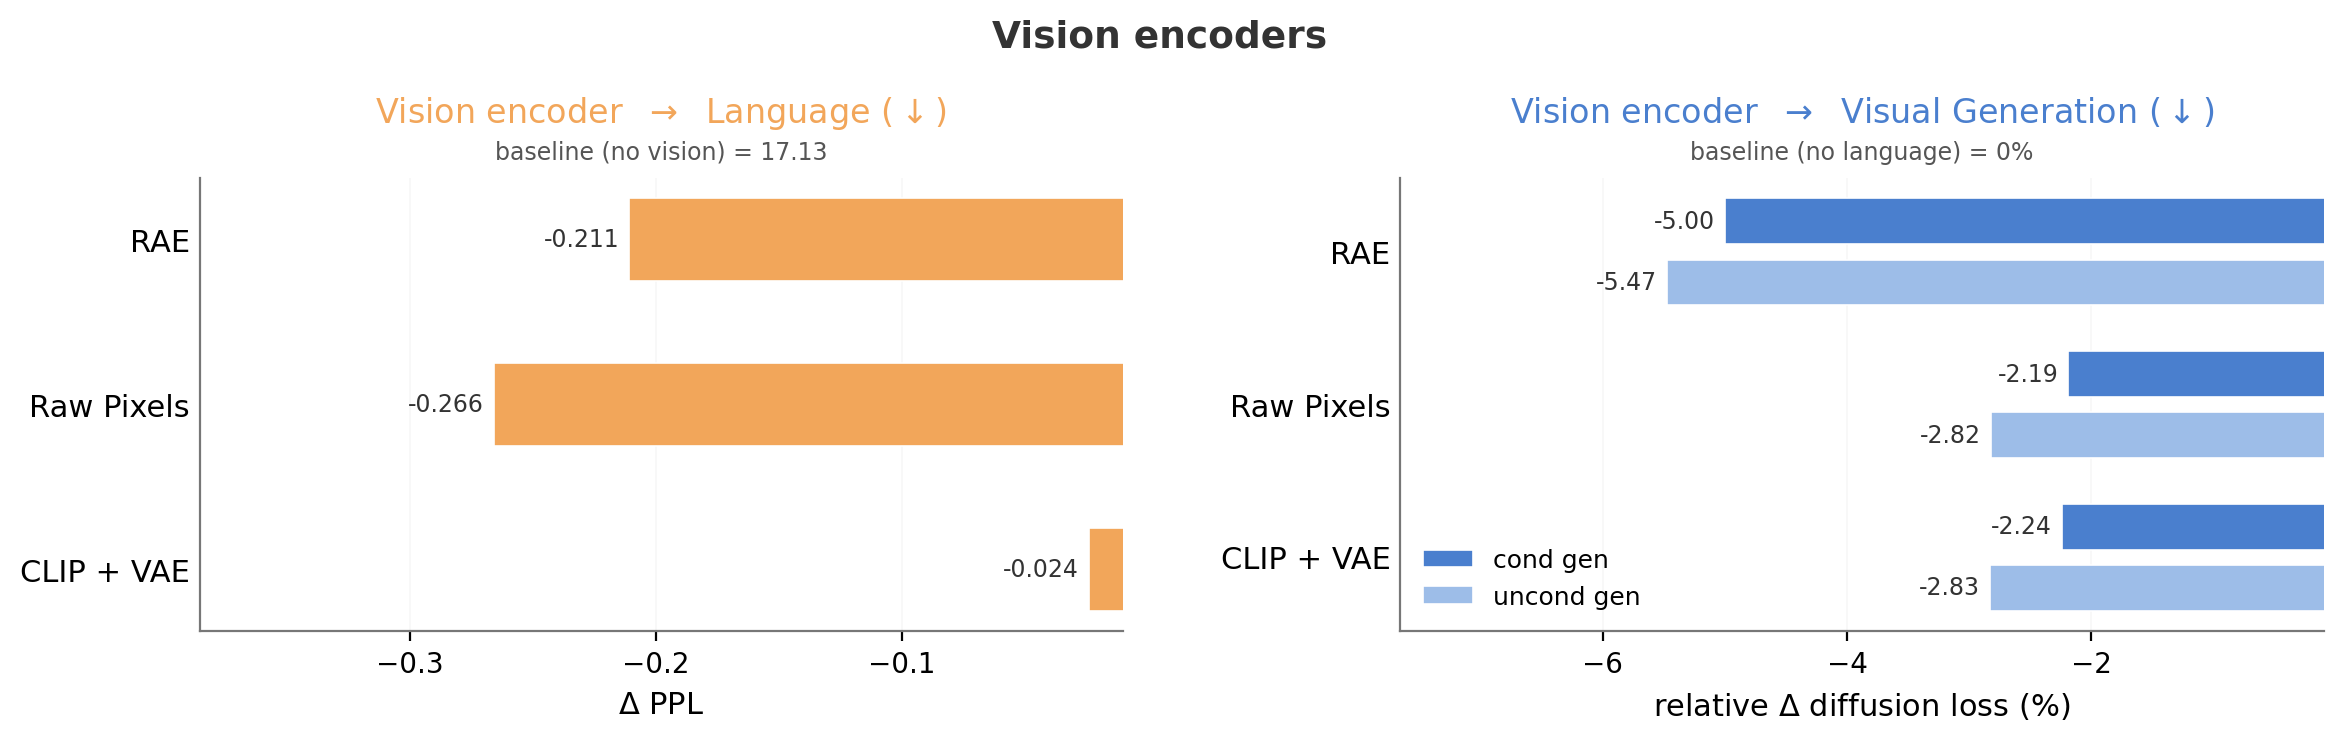
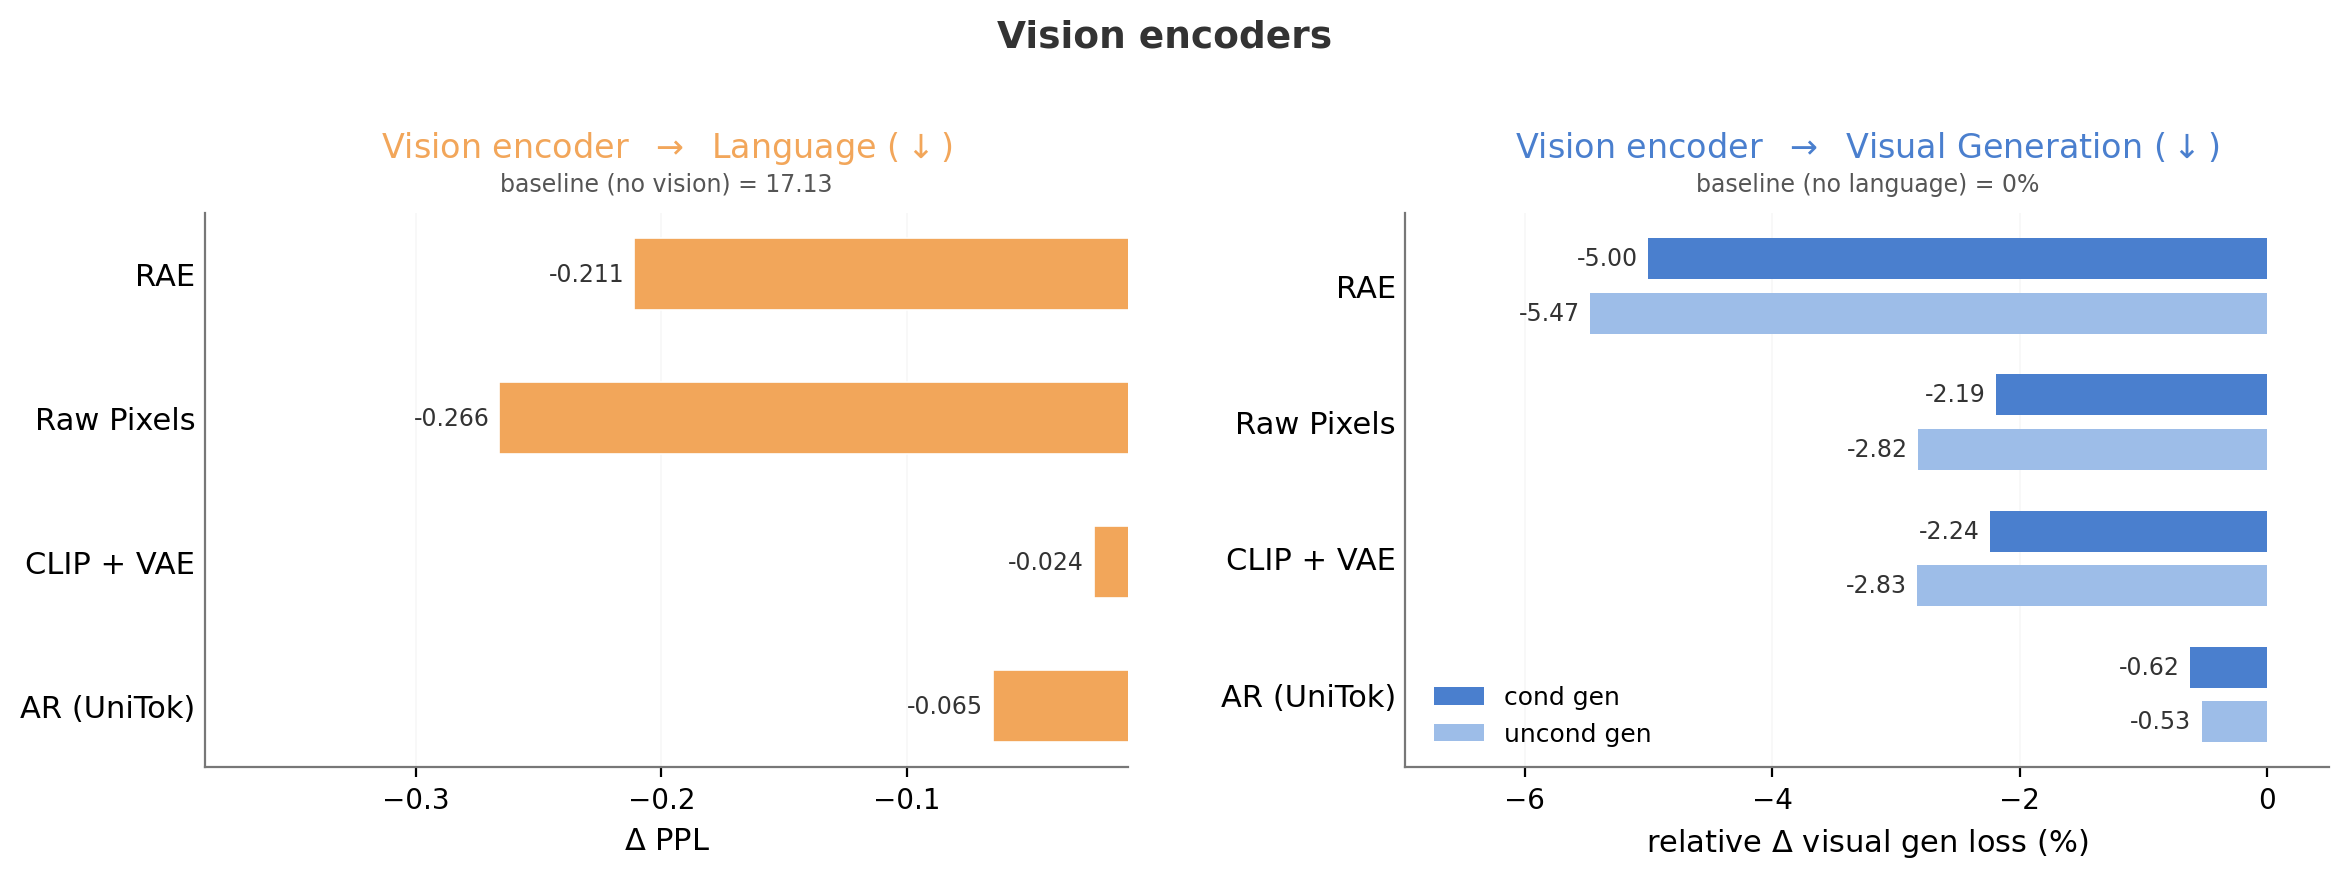
upd

diff --git a/projects/physics_of_mm_pretrain/index.html b/projects/physics_of_mm_pretrain/index.html
@@ -51,6 +51,7 @@
                         <span><a href="https://junlinhan.github.io/" class="author-link" target="_blank">Junlin Han<sup>1,2</sup></a></span>
                         <span><a href="https://tsb0601.github.io/" class="author-link" target="_blank">Shengbang Tong<sup>1</sup></a></span>
                         <span><a href="http://davidfan.io/" class="author-link" target="_blank">David Fan<sup>1</sup></a></span>
+                        <span><a href="https://silent-chen.github.io/" class="author-link" target="_blank">Minghao Chen<sup>1,2</sup></a></span>
                         <span><a href="https://scholar.google.com/citations?user=kPxa2w0AAAAJ&hl=en" class="author-link" target="_blank">Philip Torr<sup>2</sup></a></span>
                         <span><a href="https://www.fkokkinos.com/" class="author-link" target="_blank">Filippos Kokkinos<sup>1</sup></a></span>
                         <span><a href="https://scholar.google.com/citations?user=SnQnQicAAAAJ&hl=en" class="author-link" target="_blank">Mike Lewis<sup>1</sup></a></span>
@@ -62,19 +63,19 @@
                             <sup style="font-size: 0.8rem; margin-left: 2px;">1</sup>
                         </span>
                         <span class="institution-logo" style="display: inline-flex; align-items: flex-start;">
-                            <img src="assets/logos/oxford.png" alt="University of Oxford" style="height: 2rem; display: block;">
+                            <img src="assets/logos/oxford.png" alt="University of Oxford" class="logo-oxford" style="display: block;">
                             <sup style="font-size: 0.8rem; margin-left: 2px;">2</sup>
                         </span>
                     </div>
 
-                    <!-- <div class="paper-links d-flex flex-wrap justify-content-center gap-3">
+                    <div class="paper-links d-flex flex-wrap justify-content-center gap-3">
                         <a href="Towards_Physics_of_Multimodal_Pretraining_.pdf" class="resource-btn" target="_blank" rel="noopener">
-                            <i class="fas fa-file-pdf"></i> Paper 
+                            <i class="fas fa-file-pdf"></i> Paper
                         </a>
                         <a href="https://arxiv.org/abs/2606.00000" class="resource-btn" target="_blank" rel="noopener">
                             <i class="fas fa-file-lines"></i> arXiv
                         </a>
-                    </div> -->
+                    </div>
                 </div>
             </div>
         </div>
@@ -97,7 +98,8 @@
                 </div>
                 <div class="row">
                     <div class="col-lg-12">
-                        <p class="tldr-abstract mb-0">We provide a systematic, bottom-up exploration of unified multimodal pretraining. Utilizing controlled environments across both synthetic and real-world datasets, we investigate how modalities interact, compete, and co-evolve. These insights are applied to build efficient pretraining recipes and are validated at scale by training 13.5B Mixture-of-Experts (MoE) models on 2T tokens.</p>
+                        <p class="tldr-abstract mb-0">We provide a systematic, bottom-up exploration of unified multimodal pretraining. Utilizing controlled environments across both synthetic and real-world datasets, we investigate how modalities interact, compete, and co-evolve.
+                            These insights are applied to build efficient pretraining recipes and are validated at scale by training 13.5B Mixture-of-Experts (MoE) models on 2T tokens.</p>
                     </div>
                 </div>
             </div>
@@ -173,18 +175,19 @@
                             </summary>
                             <div class="study-card__body">
                                 <p class="body-text">
-                                    The real-world study trains unified models from scratch, adding more of one modality's data on top of a fixed counterpart allocation and reading off the effect on the other capabilities. The same trends hold across visual tokenizers.
+                                    The real-world study trains unified models from scratch, adding more of one modality's data on top of a fixed amount of data from the other modality and reading off the effect on the other capabilities. We test continuous visual representations with RAE, Raw Pixels, and CLIP + VAE, as well as autoregressive (AR) modeling over discrete UniTok tokens. The same transfer trends hold across these visual representations and generation objectives.
                                 </p>
                                 <div class="figure-toggle" role="group" aria-label="Select vision encoder">
                                     <button type="button" class="figure-toggle__btn is-active" data-fig="assets/figures/part123_supp_rae.png" data-label="RAE">RAE</button>
                                     <button type="button" class="figure-toggle__btn" data-fig="assets/figures/part123_supp_rawp.png" data-label="Raw Pixels">Raw Pixels</button>
                                     <button type="button" class="figure-toggle__btn" data-fig="assets/figures/part123_supp_vae.png" data-label="CLIP + VAE">CLIP + VAE</button>
+                                    <button type="button" class="figure-toggle__btn" data-fig="assets/figures/part123_supp_ar.png" data-label="AR (UniTok)">AR (UniTok)</button>
                                 </div>
                                 <div class="section-figure section-figure--wide section-figure--framed">
                                     <img src="assets/figures/part123_supp_rae.png" alt="Modality transfer results with the RAE tokenizer" class="img-fluid" loading="lazy" id="part1a-figure">
                                 </div>
                                 <p class="section-caption">
-                                    Effect of adding more of each modality's data on the other capabilities, spanning language axes, understanding metrics, and generation results.
+                                    Effect of adding more of each modality's data on the other capabilities, spanning language, understanding, and generation. Results can be viewed for continuous-token generation settings and autoregressive modeling with UniTok.
                                 </p>
                                 <p class="body-text">
                                     Scaling language lifts every understanding axis and generation metric; scaling understanding strongly boosts generation but mildly trades off pure language; scaling generation is roughly neutral. In short, knowledge flow is directional, language&rarr;vision and understanding&rarr;generation, rather than symmetric.
@@ -263,7 +266,7 @@
                             </summary>
                             <div class="study-card__body">
                                 <p class="body-text">
-                                    A fixed 100B-token budget is split evenly between language and image generation; one stream is held fixed while the other climbs a complexity ladder, with interference read as text perplexity (vision&rarr;language) and diffusion loss (language&rarr;vision) against unimodal baselines.
+                                    A fixed 100B-token budget is split evenly between language and image generation; one stream is held fixed while the other moves through increasing levels of task complexity, with interference read as text perplexity (vision&rarr;language) and generation loss (language&rarr;vision) against unimodal baselines.
                                 </p>
                                 <div class="section-figure section-figure--wide section-figure--framed section-figure--compact">
                                     <img src="assets/figures/part12_data_samples.png" alt="Data complexity progression from simple visuals to natural images" class="img-fluid" loading="lazy">
@@ -275,7 +278,7 @@
                                     <img src="assets/figures/part12_data.png" alt="Task complexity impact on multimodal training" class="img-fluid" loading="lazy">
                                 </div>
                                 <p class="section-caption">
-                                    Cross-modal interference as one stream climbs the complexity ladder, measured against unimodal baselines.
+                                    Cross-modal interference as one stream moves through increasing levels of task complexity, measured against unimodal baselines.
                                 </p>
                                 <p class="body-text">
                                     Simple counterparts (solid backgrounds, patterns, repeated-letter text) push the partner below its unimodal baseline (synergy), while complex data (video, natural images) pushes it above (competition), and the effect is symmetric across both modalities. So task complexity largely determines whether modalities help or compete.
@@ -313,23 +316,23 @@
                             </summary>
                             <div class="study-card__body">
                                 <p class="body-text">
-                                    Are these synergies tied to a specific visual representation? Reusing the Part 2B split-training protocol with synergy-maximizing probes, we repeat the study across three tokenization designs: the default <strong>RAE</strong> (based on SigLIP-2), <strong>Raw Pixels</strong> (encoder free), and the decoupled <strong>CLIP + VAE</strong>.
+                                    Are these synergies tied to a specific visual representation or generation objective? Reusing the Part 2B split-training protocol with synergy-maximizing probes, we compare four designs: the default <strong>RAE</strong> (based on SigLIP-2), encoder-free <strong>Raw Pixels</strong>, decoupled <strong>CLIP + VAE</strong>, and autoregressive <strong>AR (UniTok)</strong> modeling over discrete visual tokens.
                                 </p>
                                 <div class="section-figure section-figure--wide section-figure--framed section-figure--medium">
                                     <img src="assets/figures/part12_arch_encoders.png" alt="Impact of vision encoder designs on modality synergy" class="img-fluid" loading="lazy">
                                 </div>
                                 <p class="section-caption">
-                                    Effect of each encoder design on language perplexity (&Delta;PPL) and on relative image loss (%) for conditional and unconditional generation.
+                                    Effect of each visual representation and generation setting on language perplexity (&Delta;PPL) and relative visual-generation loss (%) for conditional and unconditional generation.
                                 </p>
                                 <p class="body-text">
-                                    Synergy holds across all three designs. Even Raw Pixels, with no semantic prior, gives the largest language gain (&Delta;PPL &minus;0.266 vs. RAE &minus;0.211), and decoupled CLIP + VAE still boosts generation despite separate latent spaces. So a pre-aligned or shared vision space is not required for synergy, which is a fundamental property of joint pretraining driven by task objectives and parameter sharing.
+                                    Synergy holds across all four designs and both continuous and autoregressive generation objectives. Raw Pixels, with no semantic prior, gives the largest language gain (&Delta;PPL &minus;0.266 vs. RAE &minus;0.211); decoupled CLIP + VAE still boosts generation despite separate latent spaces; and AR (UniTok) improves both language (&Delta;PPL &minus;0.065) and conditional/unconditional generation loss (&minus;0.62%/&minus;0.53%). A pre-aligned or shared vision space, or a particular generation objective, is therefore not a must for multimodal synergy.
                                 </p>
                             </div>
                         </details>
 
                         <div class="callout callout--green">
                             <p>
-                                <strong>Takeaway 2:</strong> Modality interaction is governed by task complexity and parameter sharing: simple tasks act as cross-modal boosters while complex tasks trigger capacity competition that outweighs synergy, and architecturally, sharing attention and normalization fosters synergy while decoupling feed-forward networks mitigates competition. These effects hold across multiple vision tokenizers.
+                                <strong>Takeaway 2:</strong> Modality interaction is governed by task complexity and parameter sharing: simple tasks act as cross-modal boosters while complex tasks trigger capacity competition that outweighs synergy, and architecturally, sharing attention and normalization fosters synergy while decoupling feed-forward networks mitigates competition.
                             </p>
                         </div>
                     </div>
@@ -348,7 +351,7 @@
                         </p>
 
                         <p class="body-text">
-                            The results challenge late-alignment heuristics: early, simultaneous unification is better for native visual understanding and generation. We then inspect the model internals to explain why late visual integration leaves the visual pathway under-active.
+                            The results challenge common late-alignment practices: early, simultaneous unification is better for native visual understanding and generation. We then inspect the model internals to explain why late visual integration leaves the visual pathway under-active.
                         </p>
 
                         <details class="study-card study-card--orange" open>
@@ -390,7 +393,7 @@
                                     Joint training versus all six sequential modality orderings, with and without a 12.5% replay buffer.
                                 </p>
                                 <p class="body-text">
-                                    Joint training dominates all six sequential orderings across nearly every metric, and replay only slightly mitigates forgetting without recovering the lost cross-modal synergy. Sequential curricula thus cannot substitute for simultaneous joint training.
+                                    Joint training dominates all six sequential orderings across nearly every metric, and replay only slightly mitigates forgetting without recovering the lost cross-modal synergy. Sequential training schedules thus cannot substitute for simultaneous joint training.
                                 </p>
                             </div>
                         </details>
@@ -403,7 +406,7 @@
                             </summary>
                             <div class="study-card__body">
                                 <p class="body-text">
-                                    We show <strong>vision laziness</strong>, where a strong language backbone is allowed to harden before vision enters, so the model can lean on language priors instead of committing capacity to vision. We study this through four diagnostic axes. All runs share the same data mix, recipe, and 200B-token late-alignment continuation, and the vision pathway is always randomly initialized from scratch, only the starting language checkpoint changes from 0B to 800B. Any change in the vision branch is therefore a clean measure of how much vision the model actually commits to learning.
+                                    We show <strong>vision laziness</strong>, where a strong language backbone is trained longer and becomes more established before vision enters, allowing the model to lean on language priors instead of committing capacity to vision. We study this through four diagnostic measures. All runs share the same data mix, recipe, and 200B-token late-alignment continuation, and the vision pathway is always randomly initialized from scratch. Only the starting language checkpoint changes, from 0B to 800B. Any change in the vision branch is therefore a clean measure of how much vision the model actually commits to learning.
                                 </p>
 
                         <details class="arch-card">
@@ -473,7 +476,7 @@
 
                         <div class="callout callout--orange" style="margin-top: 3rem;">
                             <p>
-                                <strong>Takeaway 3:</strong> Early and simultaneous unification is highly beneficial. Delaying visual integration weakens visual capabilities, sequential curricula are prone to forgetting and fail to recover joint-training synergy, and late alignment encourages vision laziness rather than fully engaged visual pathways.
+                                <strong>Takeaway 3:</strong> Early and simultaneous unification is highly beneficial. Delaying visual integration weakens visual capabilities, sequential training schedules are prone to forgetting and fail to recover joint-training synergy, and late alignment encourages vision laziness rather than fully engaged visual pathways.
                             </p>
                         </div>
                     </div>
@@ -649,7 +652,7 @@
                             </button>
                             <pre><code id="citation-text">@article{han2026towards,
   title={Towards Physics of Multimodal Pretraining: Knowledge Flow, Modality Synergy, Early Unification, and Recipes},
-  author={Han, Junlin and Tong, Shengbang and Fan, David and Torr, Philip and Kokkinos, Filippos and Lewis, Mike},
+  author={Han, Junlin and Tong, Shengbang and Fan, David and Chen, Minghao and Torr, Philip and Kokkinos, Filippos and Lewis, Mike},
   journal={arXiv preprint},
   year={2026}
 }</code></pre>
